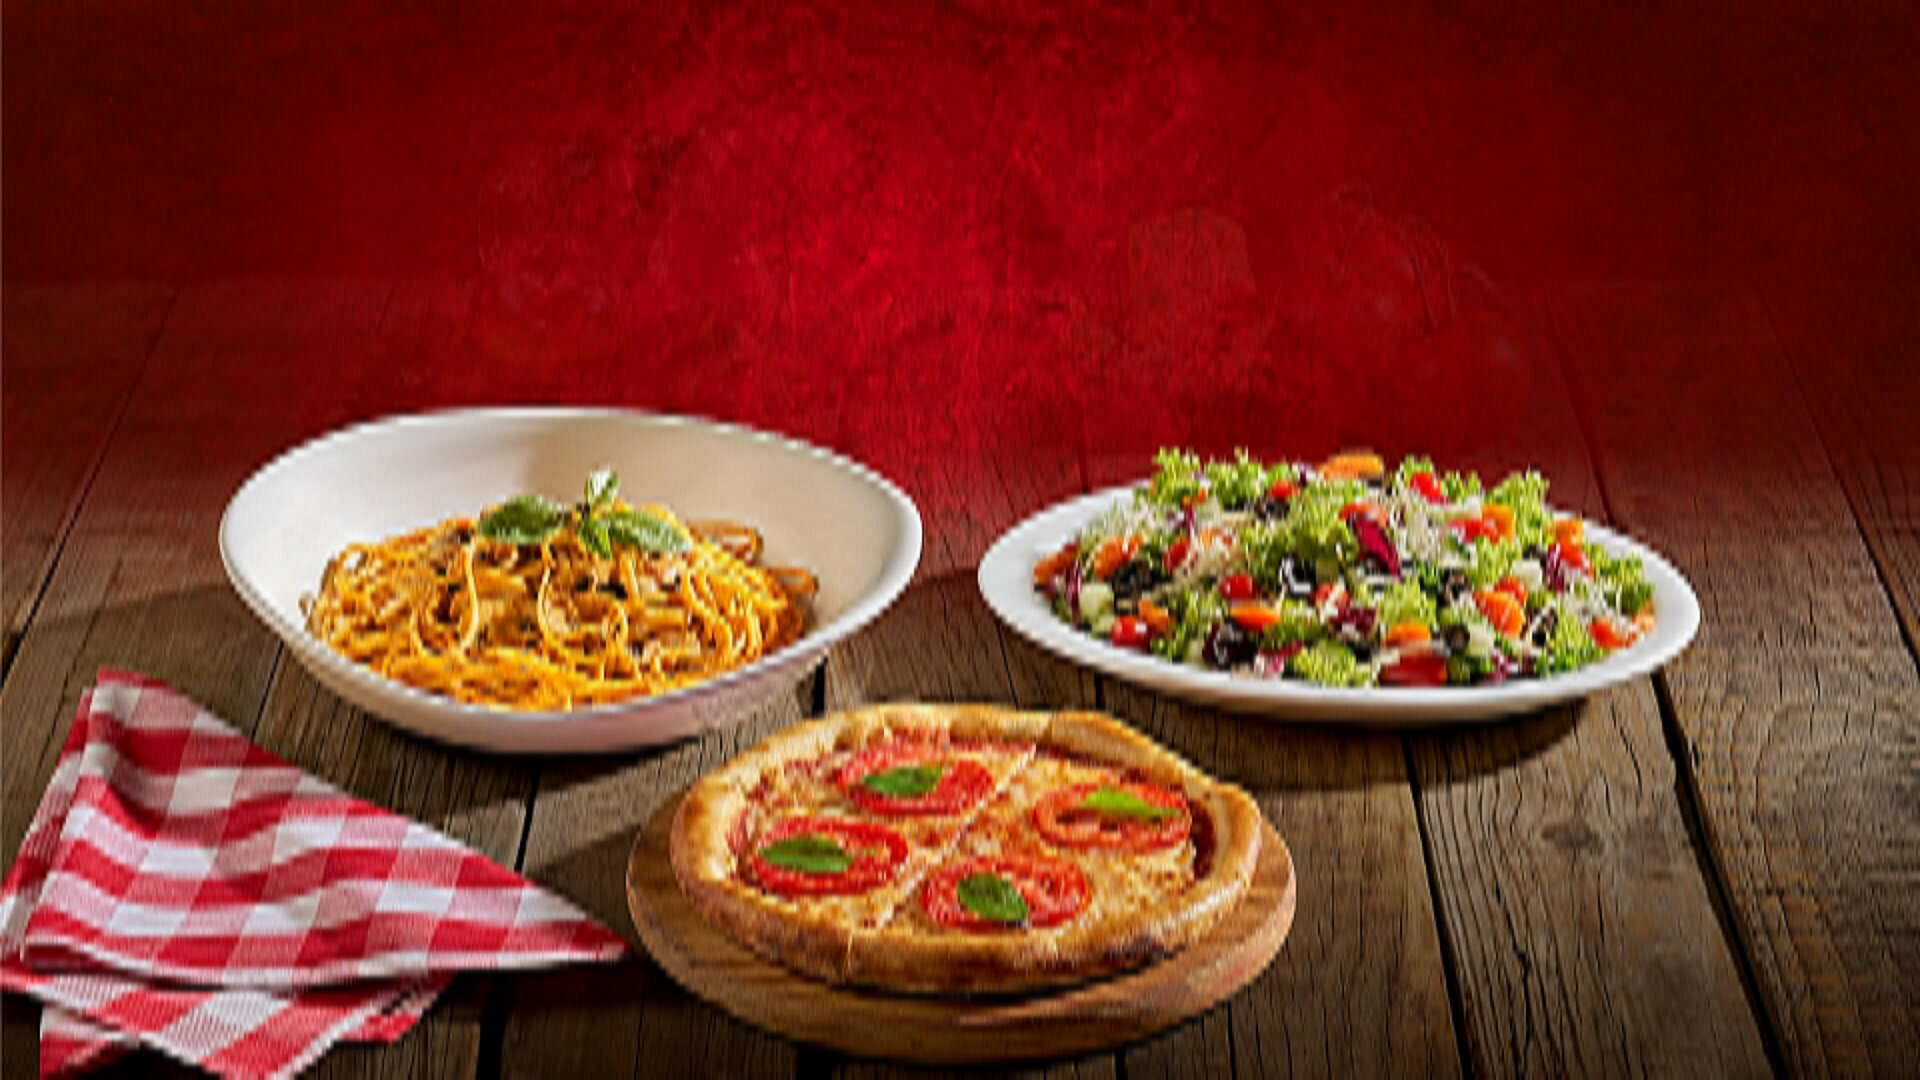
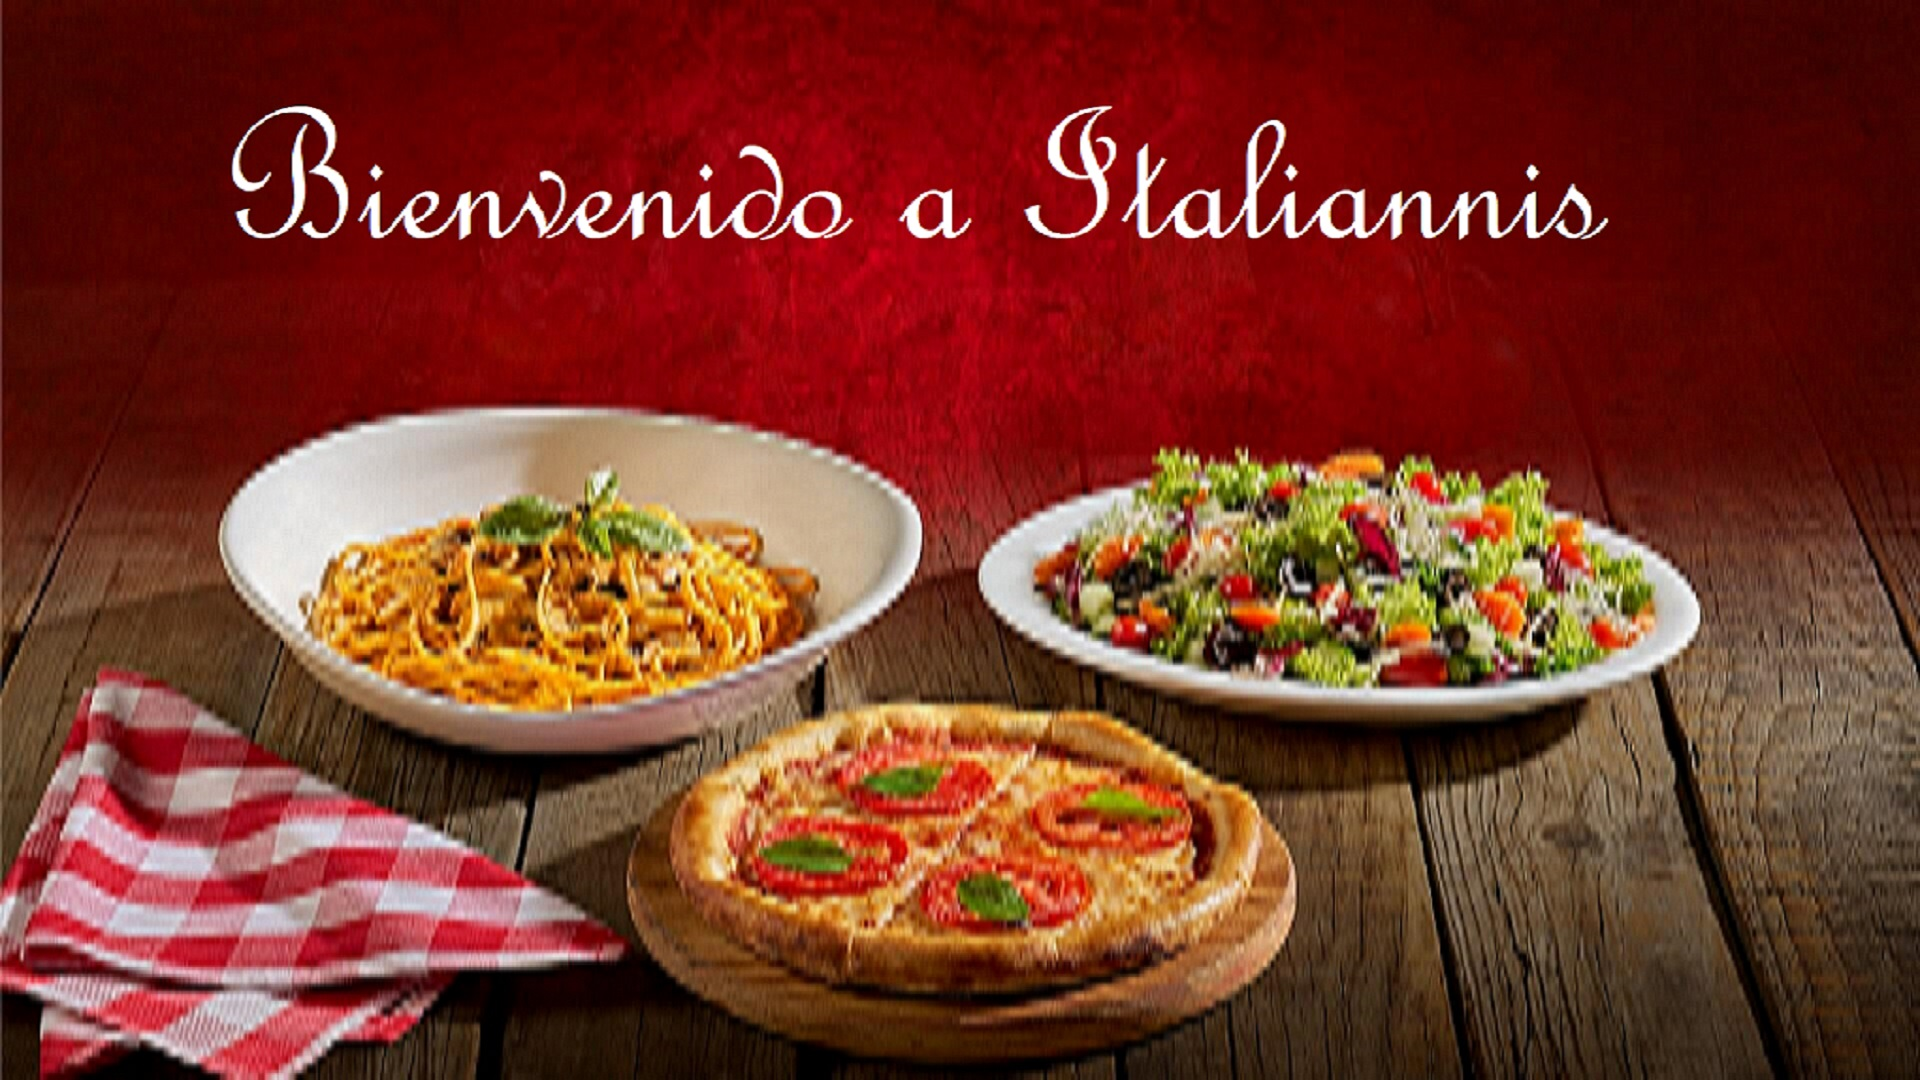
Modificaciones de iconos, centrado y colores

Changed region(s): [[0.5312, 0.0917, 0.8438, 0.2444], [0.125, 0.0917, 0.4375, 0.2444], [0.4688, 0.1528, 0.5, 0.2444]]

diff --git a/css/boceto.css b/css/boceto.css
@@ -1,7 +1,8 @@
 /* Define variables para colores y propiedades */
 :root {
-  --background-color: linear-gradient(45deg, #f9f3ec, #a4d8cf); /* Fondo con degradado */
+  --background-color: #fff; /* Fondo con degradado */
   --header-color: #014c40; /* Color de fondo del encabezado */
+  --footer-color: linear-gradient(45deg, #ff0000, #990000); /* Footer con degradado rojo */
   --text-color: #fff; /* Color de texto */
   --font-size: 16px; /* Tamaño de fuente */
 }
@@ -18,15 +19,21 @@ body {
 
 /* Estilos para el encabezado de la página */
 header {
-  text-align: center; /* Centra el contenido del encabezado horizontalmente */
+  text-align:center; /* Centra el contenido del encabezado horizontalmente */
   background: var(--header-color); /* Usa el color de fondo del encabezado definido en las variables */
-  padding: 1rem; /* Espaciado interior del encabezado */
-  display: -ms-inline-flexbox; /* Usa el modelo de caja flexible para el contenido del encabezado */
-  justify-content: space-between; /* Espacia los elementos del encabezado */
-  align-items: center; /* Centra verticalmente los elementos del encabezado */
+  margin-bottom: 60px; /* Agrega margen en la parte inferior del header */
   transition: background-color 0.3s; /* Aplica una transición al color de fondo */
 }
-
+/* Estilos para el pie de página */
+footer {
+  justify-content: space-evenly; /* Distribuye los elementos del pie de página de manera uniforme */
+  background: var(--footer-color); /* Usa el color de fondo del encabezado definido en las variables */
+  margin-top: 40px; /* Agrega margen en la parte superior del footer */
+  margin-bottom: 20px; /* Agrega margen en la parte inferior del footer */
+  display:flex; /* Usa el modelo de caja flexible para el pie de página */
+  color: var(--text-color); /* Usa el color de texto definido en las variables */
+  transition: background-color 0.3s; /* Aplica una transición al color de fondo */
+}
 /* Estilos para el logotipo en el encabezado */
 .logo {
   margin-bottom: 1rem; /* Espaciado inferior del logotipo */
@@ -35,37 +42,40 @@ header {
 .logo img {
   width: 250px; /* Ancho de la imagen del logotipo */
   height: 80px; /* Alto de la imagen del logotipo */
-  display: block; /* Convierte la imagen en un elemento de bloque */
-  margin: 0 auto; /* Centra la imagen horizontalmente */
 }
+/* Cambiar el tamaño de los íconos en los elementos <li> */
+li a i.fa-solid.fa-percent,
+li a i.fas.fa-utensils,
+li a i.fas.fa-map-marker-alt, 
+li a i.fa-solid.fa-house {
+  font-size: 30px; /* Cambia el tamaño de los íconos a 24px (ajusta el tamaño según lo necesites) */
+}
+
 
 /* Estilos para la navegación en el encabezado */
 nav ul {
-  list-style-type: none; /* Quita los marcadores de lista */
-  margin: 0;
-  margin-top: auto;
-  padding: 0;
-  display: inline; /* Hace que los elementos de la lista se muestren en línea */
-  flex-direction: row; /* Establece la dirección de los elementos en fila */
   align-items: center; /* Centra verticalmente los elementos de la lista */
 }
 
 nav ul li {
-  margin-right: 2rem; /* Espaciado derecho entre elementos de lista */
+  margin-right: 2rem; /* Espaciado derecho entre iconos */
   display: inline; /* Muestra los elementos de lista en línea */
 }
 
 /* Estilos para los enlaces de navegación */
 nav a {
-  margin-left: 15px; /* Espaciado izquierdo entre enlaces */
+  /*margin-left: 15px; /* Espaciado izquierdo entre enlaces */
   color: var(--text-color); /* Usa el color de texto definido en las variables */
   text-decoration: none; /* Quita la decoración de subrayado en los enlaces */
   font-size: 1rem; /* Tamaño de fuente de los enlaces */
   transition: color 0.3s; /* Aplica una transición al color del texto */
+  margin-bottom: 15px; /* Agrega margen en la parte inferior de la lista */
+
 }
 
 nav a:hover {
-  color: #984d4d; /* Cambia el color del texto al hacer hover */
+  background-color: #ffffff; /* Cambia el color de fondo al hacer hover */
+  color: #063e30; /* Cambia el color del texto al hacer hover */
 }
 
 /* Estilos para el contenido principal */
@@ -128,16 +138,6 @@ nav a:hover {
 
 #next-slide {
   right: 10px; /* Posición derecha del botón siguiente */
-}
-
-/* Estilos para el pie de página */
-footer {
-  background: var(--header-color); /* Usa el color de fondo del encabezado definido en las variables */
-  padding: 1rem; /* Espaciado interior del pie de página */
-  display: flex; /* Usa el modelo de caja flexible para el pie de página */
-  justify-content: space-between; /* Espacia los elementos del pie de página */
-  color: var(--text-color); /* Usa el color de texto definido en las variables */
-  transition: background-color 0.3s; /* Aplica una transición al color de fondo */
 }
 
 /* Estilos para los íconos de redes sociales en el pie de página */

diff --git a/html/index.html b/html/index.html
@@ -23,14 +23,13 @@
   <main> 
     <!-- Contenedor para el contenido dinámico -->
     <div id="contenidoDinamico">
-      <h2>Bienvenido a Italiannis</h2>
       <div class="carousel">
         <!-- Agrega aquí tus diapositivas del carrusel -->
           <div class="slide">
             <img src="../imagenes/Carrusel 1.jpeg" alt="Italiannis">
           </div>
           <div class="slide">
-            <img src="../imagenes/Carrusel 2.png" alt="Italiannis">
+            <img src="../imagenes/Carrusel 2.jpg" alt="Italiannis">
           </div>
           <div class="slide">
             <img src="../imagenes/Carrusel 3.jpg" alt="Italiannis">
